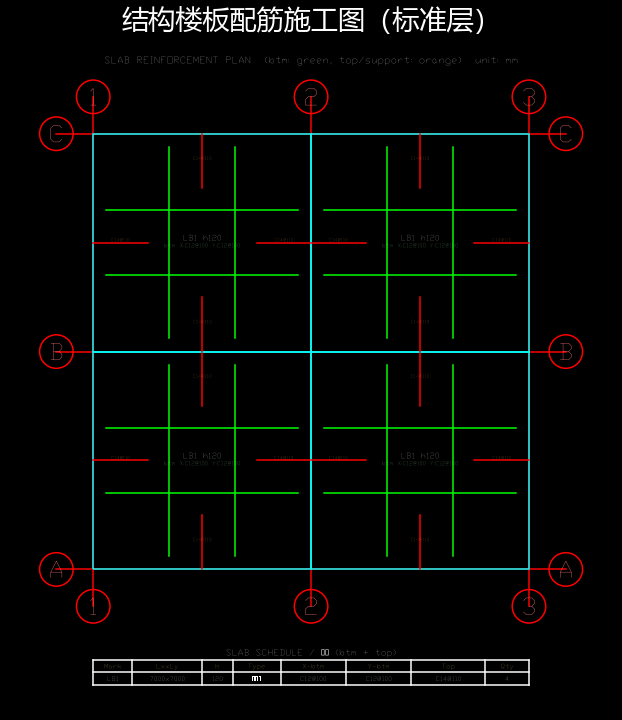
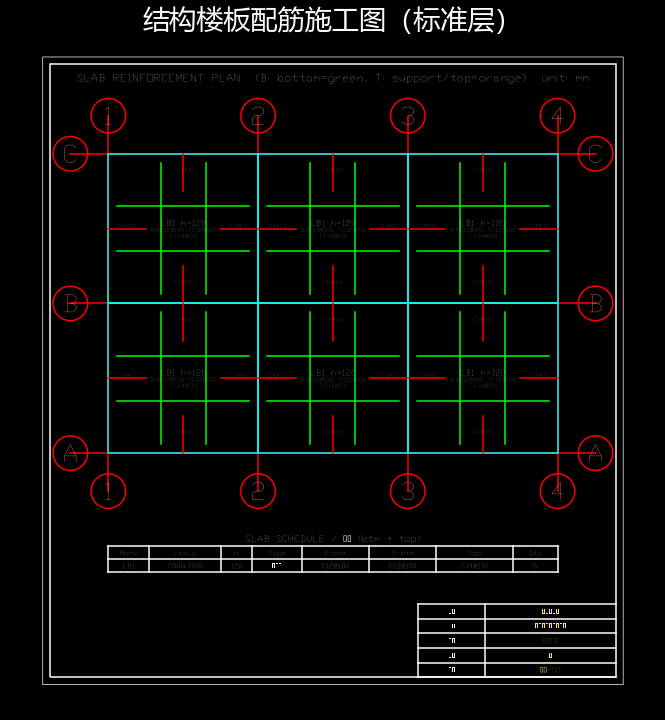
feat(出图): 平法增强 + CAD 图面美化
梁集中标注补上部通长筋(2D..)+腰筋(G..D12, hw>=450); 板平法 B/T 文字注写;
墙边缘构件(GBZ)大样; 配筋/板/基础三图加图框+标题栏(图名/工程/比例/图号);
轴线改点画线+暗色+LTSCALE; 修复设计说明与柱表重叠(分左右两栏).
selftest 模型加墙+板以覆盖新出图路径.

Changed region(s): [[0.0611, 0.0, 0.9469, 0.9472]]

diff --git a/modeler/io/dxf_export.py b/modeler/io/dxf_export.py
@@ -115,7 +115,9 @@ def _beam_schedule(beams_r):
     """跨构件钢筋归并：相同(截面+上/下纵筋+箍筋)的梁 → 同一 KL 编号。返回表行。"""
     groups, order = {}, []
     for m in beams_r.values():
-        gkey = (m["sec"], m.get("bars_top", "-"), m.get("bars_bot", "-"), m.get("stirrup", "-"))
+        thru = m.get("thru", "")
+        top = (f"{thru}/{m.get('bars_top','-')}" if thru else m.get("bars_top", "-"))
+        gkey = (m["sec"], top, m.get("bars_bot", "-"), m.get("stirrup", "-"))
         if gkey not in groups:
             groups[gkey] = dict(sec=gkey[0], top=gkey[1], bot=gkey[2], stir=gkey[3], n=0)
             order.append(gkey)
@@ -139,31 +141,40 @@ def export_plan(project, result, dxf_path, png_path=None, pdf_path=None, with_re
 
     doc = ezdxf.new(setup=True)
     msp = doc.modelspace()
-    for name, c in [("AXIS", C_AXIS), ("COLUMN", C_COL), ("BEAM", C_BEAM),
-                    ("WALL", C_WALL), ("SLAB", 4), ("TEXT", 7), ("TABLE", 7), ("TITLE", 7)]:
-        if name not in doc.layers:
-            doc.layers.add(name, color=c)
-
     gx = sorted(project.grid.x) or sorted({round(c.x) for c in fl.columns})
     gy = sorted(project.grid.y) or sorted({round(c.y) for c in fl.columns})
     x0, x1 = (min(gx), max(gx)) if gx else (0, 0)
     y0, y1 = (min(gy), max(gy)) if gy else (0, 0)
     span = max(x1 - x0, y1 - y0, 1000)
-    H = span / 80.0
-    bub = span / 26.0
-    off = bub * 2.2
+    H = span / 90.0          # 字高(略减, 更清爽)
+    bub = span / 28.0
+    off = bub * 2.4
+    # 轴线点画线比例(让点画线在 mm 图上可见)
+    doc.header["$LTSCALE"] = max(span / 260.0, 12.0)
+    AX = (150, 150, 165)     # 轴线: 暗灰蓝(不抢眼)
+    for name, c, lt in [("AXIS", 8, "CENTER"), ("COLUMN", C_COL, "CONTINUOUS"),
+                        ("BEAM", C_BEAM, "CONTINUOUS"), ("WALL", C_WALL, "CONTINUOUS"),
+                        ("SLAB", 4, "CONTINUOUS"), ("SBOT", 3, "CONTINUOUS"),
+                        ("STOP", 1, "CONTINUOUS"), ("TEXT", 7, "CONTINUOUS"),
+                        ("TABLE", 7, "CONTINUOUS"), ("TITLE", 7, "CONTINUOUS"),
+                        ("FRAME", 7, "CONTINUOUS")]:
+        if name not in doc.layers:
+            try:
+                doc.layers.add(name, color=c, linetype=lt)
+            except Exception:
+                doc.layers.add(name, color=c)
 
-    # 轴网 + 轴号
+    # 轴网 + 轴号(点画线、暗色)
     for i, x in enumerate(gx):
-        msp.add_line((x, y0 - off), (x, y1 + off), dxfattribs={"layer": "AXIS"})
+        msp.add_line((x, y0 - off), (x, y1 + off), dxfattribs={"layer": "AXIS", "color": 8})
         for yy in (y0 - off, y1 + off):
-            msp.add_circle((x, yy), bub, dxfattribs={"layer": "AXIS"})
-            _txt(msp, x, yy, str(i + 1), bub, "AXIS", (255, 120, 120))
+            msp.add_circle((x, yy), bub, dxfattribs={"layer": "AXIS", "color": 8, "linetype": "CONTINUOUS"})
+            _txt(msp, x, yy, str(i + 1), bub * 0.9, "AXIS", AX)
     for k, y in enumerate(gy):
-        msp.add_line((x0 - off, y), (x1 + off, y), dxfattribs={"layer": "AXIS"})
+        msp.add_line((x0 - off, y), (x1 + off, y), dxfattribs={"layer": "AXIS", "color": 8})
         for xx in (x0 - off, x1 + off):
-            msp.add_circle((xx, y), bub, dxfattribs={"layer": "AXIS"})
-            _txt(msp, xx, y, chr(ord("A") + k), bub, "AXIS", (255, 120, 120))
+            msp.add_circle((xx, y), bub, dxfattribs={"layer": "AXIS", "color": 8, "linetype": "CONTINUOUS"})
+            _txt(msp, xx, y, chr(ord("A") + k), bub * 0.9, "AXIS", AX)
 
     # 楼板（轮廓 + LB 编号 + 底筋；详见板表）
     slabs = getattr(result, "slabs", []) if result else []
@@ -172,10 +183,13 @@ def export_plan(project, result, dxf_path, png_path=None, pdf_path=None, with_re
         ws = abs(sd["x2"] - sd["x1"]); hs = abs(sd["y2"] - sd["y1"])
         msp.add_lwpolyline([(x0s, y0s), (x0s + ws, y0s), (x0s + ws, y0s + hs), (x0s, y0s + hs)],
                            close=True, dxfattribs={"layer": "SLAB"})
-        _txt(msp, x0s + ws / 2, y0s + hs / 2 + H * 0.7,
-             f"{sd['name']} h{sd['t']}", H * 0.85, "SLAB", RGB_W)
-        _txt(msp, x0s + ws / 2, y0s + hs / 2 - H * 0.7,
-             f"X:{sd['bars_x']} Y:{sd['bars_y']}", H * 0.7, "SLAB", (160, 210, 255))
+        _txt(msp, x0s + ws / 2, y0s + hs / 2 + H * 0.9,
+             f"{sd['name']} h={sd['t']}", H * 0.85, "SLAB", RGB_W)
+        # 平法 B/T 注写：B=板底贯通筋, T=支座板面负筋
+        _txt(msp, x0s + ws / 2, y0s + hs / 2 - H * 0.2,
+             f"B:X{sd['bars_x']} Y{sd['bars_y']}", H * 0.7, "SBOT", (150, 240, 160))
+        _txt(msp, x0s + ws / 2, y0s + hs / 2 - H * 1.3,
+             f"T:{sd.get('bars_x_top', sd['bars_x'])}", H * 0.7, "STOP", (255, 175, 95))
 
     # 墙（Q 编号，详见墙表；端部绘边缘构件区段）
     wname_of, wrows = _wall_schedule(project, walls_r)
@@ -208,12 +222,11 @@ def export_plan(project, result, dxf_path, png_path=None, pdf_path=None, with_re
         nm = name_of.get((str(round(c.x)), str(round(c.y))), f"{int(c.b)}x{int(c.h)}")
         _txt(msp, c.x, c.y, nm, H * 0.95, "COLUMN", RGB_Y)
 
-    # 柱表（plan 下方）
+    # ---- 明细表（plan 下方，左列依次堆叠；表宽限制为 0.62·span 以便右侧放说明） ----
+    tw_tbl = span * 0.62
     tbl_top = y0 - off - bub * 3.2
-    _draw_col_table(msp, rows, x0, tbl_top, span, H)
+    _draw_col_table(msp, rows, x0, tbl_top, tw_tbl, H)
     cur = tbl_top - (len(rows) + 2) * (H * 2.3) - H * 3.0
-
-    # 板表（柱表下方，按 LB 编号归并）
     if slabs:
         seen, srows = set(), []
         for sd in slabs:
@@ -221,46 +234,55 @@ def export_plan(project, result, dxf_path, png_path=None, pdf_path=None, with_re
                 seen.add(sd["name"])
                 srows.append((sd["name"], f"{int(sd['Lx']*1000)}x{int(sd['Ly']*1000)}",
                               sd["t"], sd["kind"], sd["bars_x"], sd["bars_y"], sd["qty"]))
-        scw = [span * f for f in (0.10, 0.18, 0.08, 0.12, 0.16, 0.16, 0.10)]
+        scw = [tw_tbl * f for f in (0.10, 0.18, 0.08, 0.12, 0.16, 0.16, 0.10)]
         _table(msp, x0, cur, scw, H, "SLAB SCHEDULE / 板表",
                ["Mark", "LxxLy", "h", "Type", "X-btm", "Y-btm", "Qty"], srows)
         cur = cur - (len(srows) + 2) * (H * 2.3) - H * 3.0
-
-    # 墙表（墙身分布筋 + 边缘构件）
     if wrows:
-        wcw = [span * f for f in (0.09, 0.16, 0.18, 0.18, 0.17, 0.10, 0.08)]
+        wcw = [tw_tbl * f for f in (0.09, 0.16, 0.18, 0.18, 0.17, 0.10, 0.08)]
         _table(msp, x0, cur, wcw, H, "WALL SCHEDULE / 墙表 (Q: bw x lw)",
                ["Mark", "bw x lw", "V-dist", "H-dist", "Edge bars", "n_ratio", "Qty"], wrows)
         cur = cur - (len(wrows) + 2) * (H * 2.3) - H * 3.0
-
-    # 梁表（跨构件钢筋归并：相同截面+配筋的梁同编号 KL#）
     brows = _beam_schedule(beams_r)
     if brows:
-        bcw = [span * f for f in (0.09, 0.15, 0.22, 0.22, 0.22, 0.10)]
+        bcw = [tw_tbl * f for f in (0.10, 0.15, 0.24, 0.21, 0.20, 0.10)]
         _table(msp, x0, cur, bcw, H,
-               f"BEAM SCHEDULE / 梁表 (consolidated: {len(beams_r)} beams -> {len(brows)} marks)",
-               ["Mark", "b x h", "Top", "Bottom", "Stirrup", "Qty"], brows)
+               f"BEAM SCHEDULE / 梁表 ({len(beams_r)}->{len(brows)} marks)",
+               ["Mark", "b x h", "Top thru+supt", "Bottom", "Stirrup", "Qty"], brows)
         cur = cur - (len(brows) + 2) * (H * 2.3) - H * 3.0
-
-    # 截面大样（plan 右侧，KZ 各型 + 代表梁 KL）
-    rep_beam = None
-    if beams_r:
-        rep_beam = max(beams_r.values(), key=lambda m: m.get("As", 0))
-    _draw_sections(msp, rows, rep_beam, x1 + off + span * 0.16, y1, span / 7.0, H)
-
-    # 材料统计表（柱表下方）
     tk = getattr(result, "takeoff", None) if result else None
     if tk:
-        _draw_takeoff_table(msp, tk, x0, cur, span, H)
+        _draw_takeoff_table(msp, tk, x0, cur, tw_tbl, H)
+        cur = cur - (9 + 2) * (H * 2.2) - H * 3.0
+    tables_bottom = cur
+
+    # ---- 设计说明（右列，与表格不重叠） ----
     nt = getattr(result, "notes", None) if result else None
     if nt:
-        _draw_notes(msp, nt, x0 + span * 0.55, tbl_top, H)
+        _draw_notes(msp, nt, x0 + tw_tbl + span * 0.04, tbl_top, H)
 
-    # ASCII 标题（CAD 用；预览另叠中文）
+    # ---- 截面大样 + 墙边缘构件大样（plan 右侧） ----
+    rep_beam = max(beams_r.values(), key=lambda m: m.get("As", 0)) if beams_r else None
+    sec_x = x1 + off + span * 0.18
+    cell = span / 7.0
+    _draw_sections(msp, rows, rep_beam, sec_x, y1, cell, H)
+    sec_bottom = y1 - (len(rows) + 1) * cell * 1.9 - cell
+    if wrows:
+        _draw_wall_edge(msp, wrows, sec_x, sec_bottom, cell, H)
+        sec_bottom -= cell * 1.9
+
+    # ---- 图名 + 图框 + 标题栏 ----
     n_floors = project.total_floors()
     sys_ = "Frame-Wall" if fl.walls else "Frame"
-    _txt(msp, (x0 + x1) / 2, y1 + off + bub * 2.2,
-         f"REINFORCEMENT PLAN (Std Floor)  {sys_}  {n_floors}F   unit: mm", H * 1.2, "TITLE", RGB_W)
+    _txt(msp, (x0 + x1) / 2, y1 + off + bub * 2.0,
+         f"REINFORCEMENT PLAN (Std Floor)  {sys_}  {n_floors}F   unit: mm", H * 1.3, "TITLE", RGB_W)
+    L = x0 - off - bub * 1.6
+    R = sec_x + cell * 0.8
+    T = y1 + off + bub * 3.4
+    Bm = min(tables_bottom, sec_bottom) - bub * 0.6
+    _frame_titleblock(msp, L, Bm, R, T, H,
+                      title="结构配筋平面图（标准层）",
+                      proj=f"{'框架-剪力墙' if fl.walls else '框架'}结构 {n_floors}层", dwg_no="结施-01")
 
     doc.saveas(dxf_path)
 
@@ -305,9 +327,13 @@ def export_slab_plan(project, result, dxf_path, png_path=None, pdf_path=None):
         for fx in (0.35, 0.65):
             msp.add_line((xa + ws * fx, ya + hs * 0.06), (xa + ws * fx, ya + hs * 0.94),
                          dxfattribs={"layer": "SBOT"})
-        _txt(msp, xa + ws / 2, ya + hs / 2 + H * 0.9, f"{sd['name']} h{sd['t']}", H, "SLAB", RGB_W)
-        _txt(msp, xa + ws / 2, ya + hs / 2 - H * 0.5,
-             f"btm X:{sd['bars_x']} Y:{sd['bars_y']}", H * 0.72, "SBOT", (150, 240, 160))
+        _txt(msp, xa + ws / 2, ya + hs / 2 + H * 1.0, f"{sd['name']} h={sd['t']}", H, "SLAB", RGB_W)
+        # 平法 B(板底贯通)
+        _txt(msp, xa + ws / 2, ya + hs / 2 - H * 0.2,
+             f"B:X{sd['bars_x']} Y{sd['bars_y']}", H * 0.72, "SBOT", (150, 240, 160))
+        # 平法 T(支座板面负筋)
+        _txt(msp, xa + ws / 2, ya + hs / 2 - H * 1.3,
+             f"T:{sd.get('bars_x_top', sd['bars_x'])}", H * 0.72, "STOP", (255, 175, 95))
         # 支座负筋(板面)：四边各画一条伸入跨内 L/4 的线 + 端部下弯钩 + 标注
         qx, qy = ws * 0.25, hs * 0.25
         bxt = sd.get("bars_x_top", sd["bars_x"]); byt = sd.get("bars_y_top", sd["bars_y"])
@@ -333,7 +359,12 @@ def export_slab_plan(project, result, dxf_path, png_path=None, pdf_path=None):
                ["Mark", "LxxLy", "h", "Type", "X-btm", "Y-btm", "Top", "Qty"], srows)
 
     _txt(msp, (x0 + x1) / 2, y1 + off + bub * 2.2,
-         "SLAB REINFORCEMENT PLAN  (btm: green, top/support: orange)  unit: mm", H * 1.2, "TITLE", RGB_W)
+         "SLAB REINFORCEMENT PLAN  (B: bottom=green, T: support/top=orange)  unit: mm", H * 1.3, "TITLE", RGB_W)
+    # 图框 + 标题栏
+    tb_top = (y0 - off - bub * 3.2)
+    _frame_titleblock(msp, x0 - off - bub * 1.6, min(tb_top - bub * 8, y0 - off - bub * 9),
+                      x1 + off + bub * 1.6, y1 + off + bub * 3.4, H,
+                      title="结构楼板配筋施工图", proj="标准层楼板", dwg_no="结施-02")
     doc.saveas(dxf_path)
     if png_path or pdf_path:
         try:
@@ -361,15 +392,19 @@ def _draw_beams(msp, fl, beams_r, H):
             segs.sort(key=lambda t: min(t[1].x1, t[1].x2))
         elif key[0] == "V":
             segs.sort(key=lambda t: min(t[1].y1, t[1].y2))
-        # 集中标注（连续梁一次）：KLn(跨数) bxh 箍筋
+        # 集中标注（连续梁一次，平法）：KLn(跨数) b×h / 箍筋 / 上部通长筋 [/ G腰筋]
         bi0, b0 = segs[0]
-        m0 = beams_r.get(str(bi0))
+        m0 = beams_r.get(str(bi0)) or {}
         sec = f"{int(b0.b)}x{int(b0.h)}"
-        stir = (m0.get("stirrup", "A8@100/200(2)") if m0 else "A8@100/200(2)")
+        stir = m0.get("stirrup", "A8@100/200(2)")
+        thru = m0.get("thru", "2D20")
+        waist = m0.get("waist", "")
         px, py = _perp(b0)
         cx, cy = (b0.x1 + b0.x2) / 2, (b0.y1 + b0.y2) / 2
-        _txt(msp, cx + px * H * 3.0, cy + py * H * 3.0,
-             f"KL{kl}({len(segs)}) {sec} {stir}", H * 0.95, "BEAM", RGB_G)
+        line1 = f"KL{kl}({len(segs)}) {sec} {stir} {thru}"
+        _txt(msp, cx + px * H * 3.2, cy + py * H * 3.2, line1, H * 0.9, "BEAM", RGB_G)
+        if waist:                      # 腰筋另起一行(平法 G/N 行)
+            _txt(msp, cx + px * H * 4.6, cy + py * H * 4.6, waist, H * 0.8, "BEAM", (150, 220, 170))
         # 逐跨：跨中下部筋 + 支座上部负筋
         for bi, b in segs:
             msp.add_line((b.x1, b.y1), (b.x2, b.y2), dxfattribs={"layer": "BEAM"})
@@ -432,6 +467,42 @@ def _section_box(msp, ax, ay, b, h, cell, label, sub, kind="col", top="", bot=""
     Ht = cell / 9.0
     _txt(msp, ax, ay - hh / 2 - Ht * 1.6, label, Ht * 1.2, "TEXT", RGB_W)
     _txt(msp, ax, ay - hh / 2 - Ht * 3.2, sub, Ht * 0.95, "TEXT", RGB_G)
+
+
+def _frame_titleblock(msp, L, B, R, T, H, title="结构施工图", proj="", dwg_no="结施-01"):
+    """图框(粗边框) + 右下角标题栏(图名/工程/比例/日期/图号)。"""
+    lw = max((R - L) * 0.0012, 6.0)
+    msp.add_lwpolyline([(L, B), (R, B), (R, T), (L, T)], close=True,
+                       dxfattribs={"layer": "FRAME", "const_width": lw})
+    # 内边线(细)
+    pad = (T - B) * 0.012
+    msp.add_lwpolyline([(L + pad, B + pad), (R - pad, B + pad), (R - pad, T - pad), (L + pad, T - pad)],
+                       close=True, dxfattribs={"layer": "FRAME"})
+    # 标题栏(右下)
+    tw = min((R - L) * 0.34, (R - L) - 2 * pad)
+    rh = H * 2.6
+    nrow = 5
+    tx0, ty0 = R - pad - tw, B + pad
+    for r in range(nrow + 1):
+        msp.add_line((tx0, ty0 + r * rh), (R - pad, ty0 + r * rh), dxfattribs={"layer": "FRAME"})
+    msp.add_line((tx0, ty0), (tx0, ty0 + nrow * rh), dxfattribs={"layer": "FRAME"})
+    msp.add_line((tx0 + tw * 0.34, ty0), (tx0 + tw * 0.34, ty0 + nrow * rh), dxfattribs={"layer": "FRAME"})
+    rowsTB = [("图号", dwg_no), ("日期", "—"), ("比例", "NTS"), ("图名", title), ("工程", proj)]
+    for i, (k, v) in enumerate(rowsTB):
+        yy = ty0 + (i + 0.5) * rh
+        _txt(msp, tx0 + tw * 0.17, yy, k, H * 0.85, "FRAME", RGB_W)
+        _txt(msp, tx0 + tw * 0.34 + (tw * 0.66) / 2, yy, v, H * 0.9, "FRAME", RGB_Y)
+
+
+def _draw_wall_edge(msp, wrows, ax, ay, cell, H):
+    """墙边缘构件(GBZ/YBZ)大样：取代表墙肢，画约束边缘构件截面 + 纵筋 + 箍筋示意。"""
+    if not wrows:
+        return
+    name, sec, vd, hd, edge, mu, qty = wrows[0]
+    bw, lw = _parse_sec(sec)
+    lc = max(bw, 400)                      # 边缘构件长度(示意)
+    _txt(msp, ax, ay + cell * 0.75, "EDGE MEMBER / 边缘构件(GBZ)", cell / 8.0, "TEXT", RGB_W)
+    _section_box(msp, ax, ay, lc, bw, cell, f"GBZ ({name})", f"{edge}  A8@100", kind="col")
 
 
 def _draw_sections(msp, rows, rep_beam, ax, ay_top, cell, H):
@@ -611,6 +682,7 @@ def export_foundation(project, result, dxf_path, png_path=None, pdf_path=None, f
         scw = [span * f for f in (0.10, 0.14, 0.12, 0.20, 0.18, 0.10)]
         _table(msp, x0, cur, scw, H, "STRIP FOOTING / 条形基础表 (TJ)",
                ["Mark", "B(mm)", "h(mm)", "Rebar", "q(kN/m)", "Qty"], srows)
+        cur = cur - (len(srows) + 2) * (H * 2.3) - H * 3.0
 
     # 典型基础剖面大样（右侧）
     if rows:
@@ -618,9 +690,14 @@ def export_foundation(project, result, dxf_path, png_path=None, pdf_path=None, f
 
     n_floors = project.total_floors()
     _txt(msp, (x0 + x1) / 2, y1 + off + bub * 2.2,
-         f"FOUNDATION PLAN  fak={fak:.0f} kPa   unit: mm", H * 1.2, "TITLE", RGB_W)
+         f"FOUNDATION PLAN  fak={fak:.0f} kPa   unit: mm", H * 1.3, "TITLE", RGB_W)
     _txt(msp, x0, y1 + off + bub * 0.8,
          f"基础选型建议：{rec['kind']}（{rec['reason']}）", H * 0.9, "TEXT", RGB_G, align="MIDDLE_LEFT")
+    if "FRAME" not in doc.layers:
+        doc.layers.add("FRAME", color=7)
+    _frame_titleblock(msp, x0 - off - bub * 1.6, cur - bub * 2, x1 + off + span * 0.40,
+                      y1 + off + bub * 3.4, H, title="基础平面布置图",
+                      proj=f"fak={fak:.0f}kPa {rec['kind']}", dwg_no="结施-03")
     doc.saveas(dxf_path)
     cn = f"基础平面布置图（柱下独立基础）　fak={fak:.0f} kPa"
     if png_path or pdf_path:

diff --git a/modeler/run/analyze.py b/modeler/run/analyze.py
@@ -382,11 +382,22 @@ def analyze(project, out_dir, light=False) -> Result:
             ok = f_pos.ok and f_neg.ok and shear_ok and As / (bb * (bh - 40)) <= 0.025
             conc["beam"] += bb * bh * (L * 1000.0)
             slong["beam"] += dt.steel_kg(As_top + As_bot, L)
+            # 平法集中标注用：上部通长筋(2根角筋) + 侧面腰筋(GB 50010 9.2.13: 腹板高 hw≥450 设构造腰筋)
+            d_top = int(getattr(bars_top, "d", 20))
+            thru = f"2D{d_top}"
+            import math as _m2
+            hw = bh - 100.0
+            if hw >= 450.0:
+                As_side = 0.001 * bb * hw                       # 每侧构造腰筋面积
+                n_side = max(int(_m2.ceil(As_side / 113.1)), int(_m2.ceil(hw / 200.0)) - 1, 1)
+                waist = f"G{2*n_side}D12"
+            else:
+                waist = ""
             members.append(dict(id=mid, kind="梁", sec=f"{int(bb)}×{int(bh)}",
                                 N=0, M=max(M_pos, M_neg), As=As, bars=bars_top.label(), ok=ok,
                                 As_top=As_top, As_bot=As_bot, beam_kind=kind_b,
                                 bars_top=bars_top.label(), bars_bot=bars_bot.label(),
-                                stirrup=stir))
+                                thru=thru, waist=waist, stirrup=stir))
 
     # 设计规则：梁纵筋"取大包罗"(envelope)——同截面组内统一取最大上/下纵筋，便于施工(同时影响计算与出图)
     pol = getattr(project, "policy", None)
@@ -405,6 +416,7 @@ def analyze(project, out_dir, light=False) -> Result:
                 mm["bars_bot"] = bot.get("bars_bot", mm.get("bars_bot"))
                 mm["As"] = max(mm.get("As_top", 0.0), mm.get("As_bot", 0.0))
                 mm["bars"] = mm["bars_top"]
+                mm["thru"] = top.get("thru", mm.get("thru", "2D20"))   # 通长筋随上部筋归并
 
     n_vert = len([m for m in members if m["kind"] in ("柱", "墙")])
     n_bad = sum(0 if m["ok"] else 1 for m in members)

diff --git a/launch_modeler.py b/launch_modeler.py
@@ -24,16 +24,22 @@ def _selftest():
         from modeler.run.analyze import analyze
         from modeler.io.dxf_export import export_plan
         from modeler import view3d
+        from modeler.project import Wall, Slab
         B = 7000; xs = [0, B, 2 * B]; ys = [0, B, 2 * B]
         cols = [Column(x, y, 600, 600) for x in xs for y in ys]
-        beams = ([Beam(xs[i], y, xs[i + 1], y, 300, 600) for y in ys for i in range(2)]
-                 + [Beam(x, ys[k], x, ys[k + 1], 300, 600) for x in xs for k in range(2)])
+        beams = ([Beam(xs[i], y, xs[i + 1], y, 300, 650) for y in ys for i in range(2)]
+                 + [Beam(x, ys[k], x, ys[k + 1], 300, 650) for x in xs for k in range(2)])
+        slabs = [Slab(xs[i], ys[k], xs[i + 1], ys[k + 1], 120) for i in range(2) for k in range(2)]
         p = Project(grid=Grid(xs, ys),
-                    floor=StandardFloor(columns=cols, beams=beams, walls=[], slab=SlabLoad(6, 2.5)),
+                    floor=StandardFloor(columns=cols, beams=beams, walls=[Wall(B, B, 2 * B, B, 300)],
+                                        slabs=slabs, slab=SlabLoad(6, 2.5)),
                     storeys=[Storey(3600, 4)], seismic=Seismic(n_modes=6))
         r = analyze(p, out)
+        # 出图(含新版图框/标题栏/平法通长筋腰筋/墙边缘大样/板B-T)
         export_plan(p, r, os.path.join(out, "plan.dxf"),
                     os.path.join(out, "plan.png"), os.path.join(out, "plan.pdf"))
+        from modeler.io.dxf_export import export_slab_plan as _esp
+        _esp(p, r, os.path.join(out, "slab.dxf"), os.path.join(out, "slab.png"))
         view3d.export_html(p, r, os.path.join(out, "v3d.html"), "util")
         view3d.export_png(p, r, os.path.join(out, "v3d.png"), "disp")
         # 新功能模块的冻结环境冒烟(确保 hiddenimport 齐全：钢结构/地区/识别/命令/基础/板施工图)